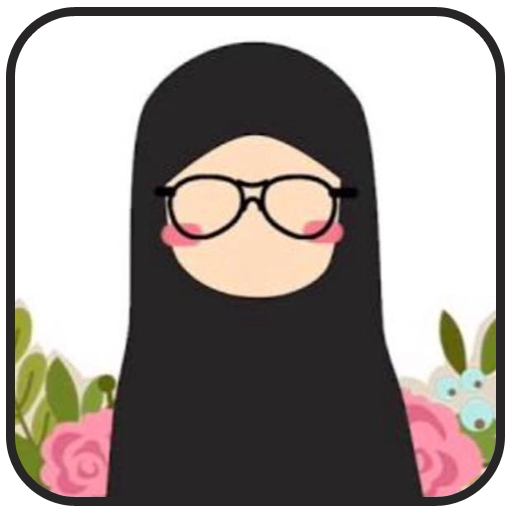
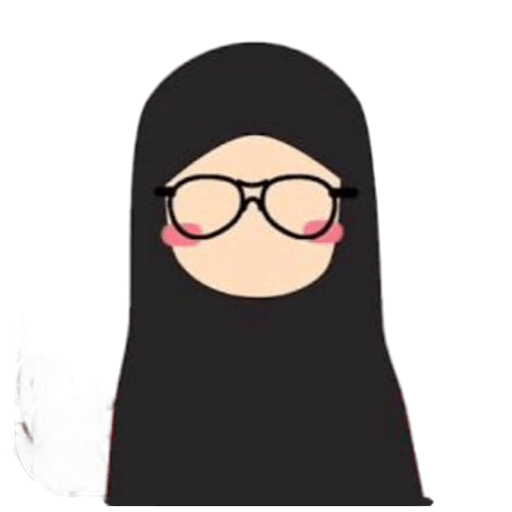
perubahan2

Changed region(s): [[0.0, 0.0, 1.0, 1.0], [0.7188, 0.2812, 0.75, 0.3438]]

diff --git a/index.html b/index.html
@@ -30,7 +30,7 @@
       <!-- untuk home -->
       <section id="home">
         <div class="home-img">
-          <img src="img/gambar1.jpeg"/>
+          <img src="img/gambar1.png"/>
         </div>
         <div class="kolom">
           <p class="deskripsi">Sebingkai Narasi Home #kegiatan</p>
@@ -50,7 +50,7 @@
            <p><a href="acara.html" class="tbl-pink">Selengkapnya</a></p>
         </div>
         <div class="other-img">
-          <img src="img/gambar2.jpeg"/>
+          <img src="img/gambar2.png"/>
         </div>
       </section>
       
@@ -69,15 +69,15 @@
                 <p>Clara</p>
               </div>
               <div class="kartu-tutor">
-                <img src="img/kartu2.jpeg"/>
+                <img src="img/kartu2.png"/>
                 <p>Arinda</p>
               </div>
               <div class="kartu-tutor">
-                <img src="img/kartu3.jpeg"/>
+                <img src="img/kartu3.png"/>
                 <p>Adam</p>
               </div>
               <div class="kartu-tutor">
-                <img src="img/kartu4.jpeg"/>
+                <img src="img/kartu4.png"/>
                 <p>Tyo Suga</p>
               </div>
             </div>

diff --git a/css/style.css b/css/style.css
@@ -21,6 +21,7 @@ body {
   margin: 0px;
   padding: 0px;
   font-family: 'Lora',serif;
+  background: var(--bg-color);
 }
 
 .header {
@@ -208,7 +209,7 @@ p {
 }
 
 .kartu-partner img {
-  width: 100%;
+  width: 90%;
   border-radius: 50%;
 }
 
@@ -277,6 +278,11 @@ h3 {
     width: 100%;
     height: auto;
     /*margin-top: 70px;*/
+  }
+  
+  .other-img img {
+    display: block;
+    margin: 1rem 4rem;
   }
   
   .tengah {
